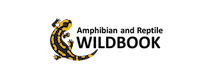
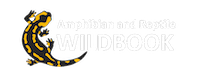
WB-1935 tweaks with new image resolution and transparent with white font

Changed region(s): [[0.09, 0.125, 0.78, 0.85], [0.69, 0.25, 0.72, 0.3], [0.51, 0.3, 0.54, 0.325]]

diff --git a/src/main/webapp/cust/mantamatcher/styles/_bootstrap-overrides.less b/src/main/webapp/cust/mantamatcher/styles/_bootstrap-overrides.less
@@ -54,7 +54,7 @@ label { font-weight: normal; }
   	float: none;
   	display: block;
   	 background: url(../img/header1.png) no-repeat center;
-     background-size: cover;
+     background-size: contain;
 	}
 
 @media (min-width: @screen-sm) {
